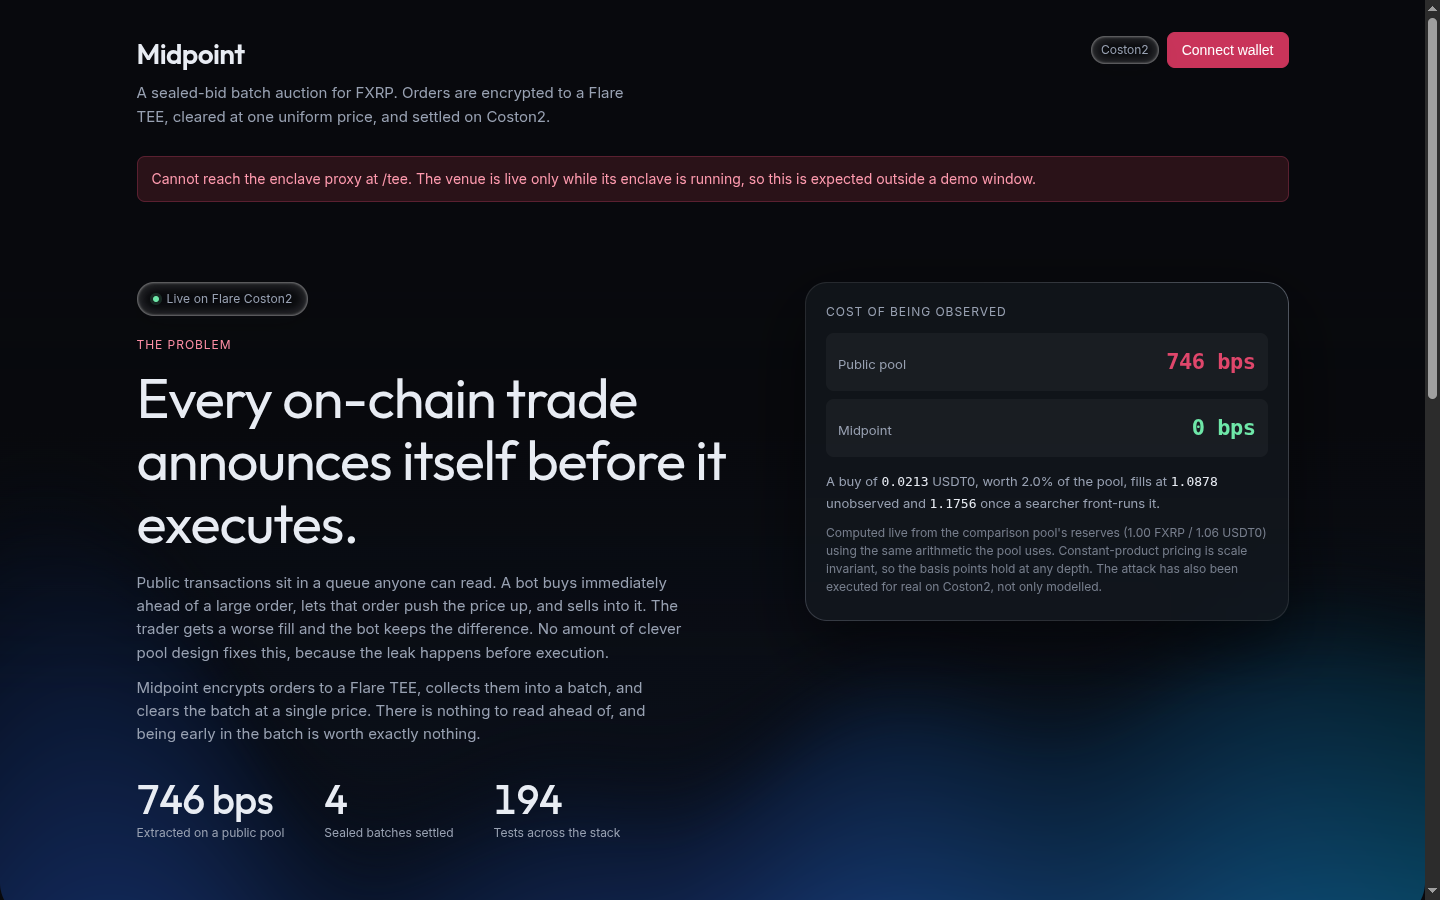
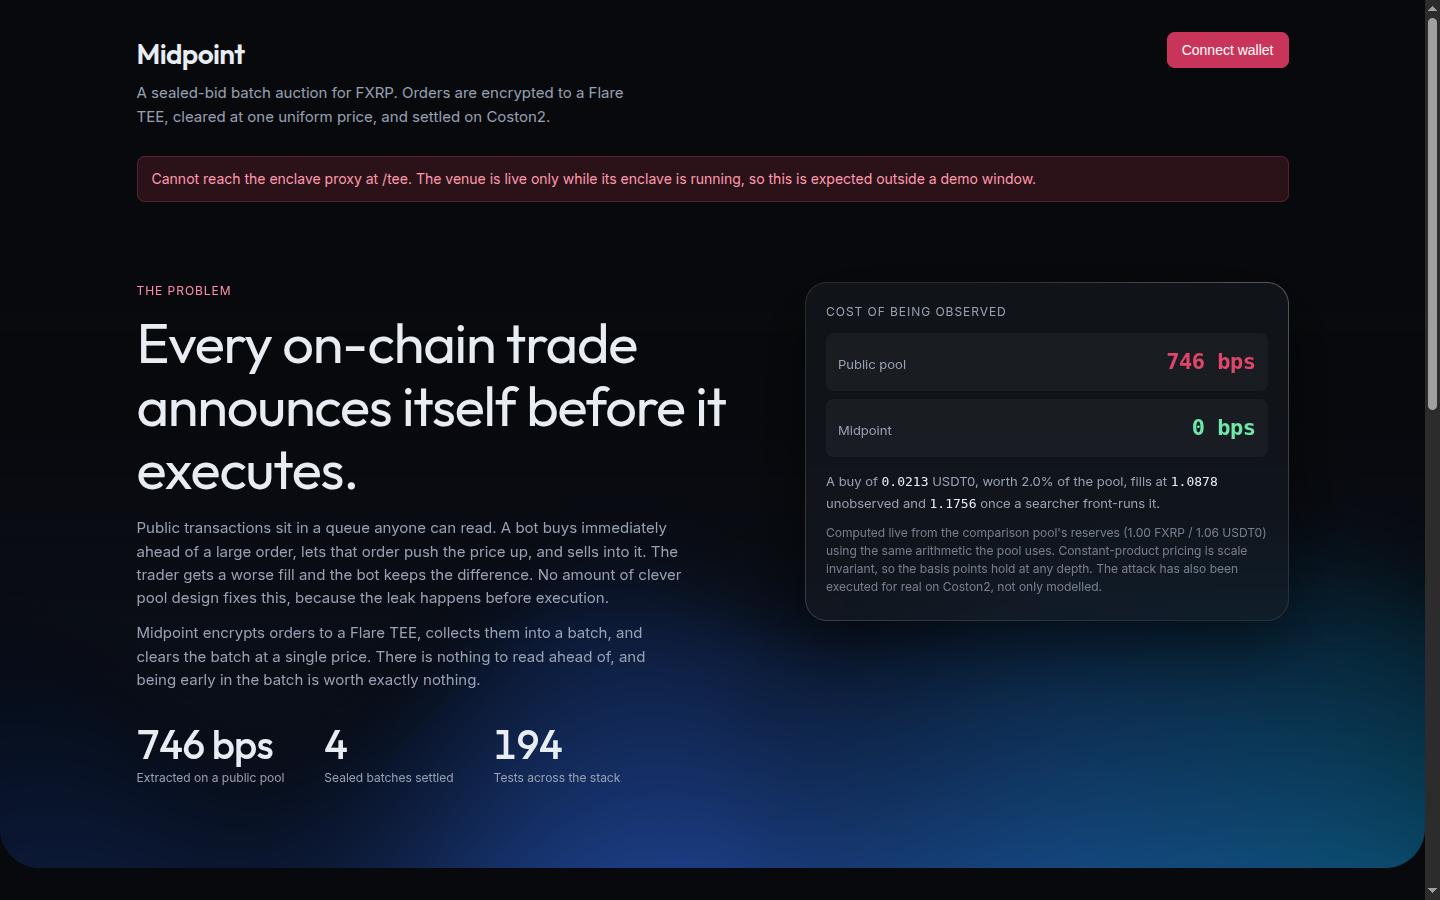
feat: remove the decorative pills from the hero and header
Drops the "Live on Flare Coston2" badge and the "Coston2" chip. Both said
the same thing as each other and as the tagline, which already ends "settled
on Coston2", so the page announced its network three times before saying
anything about the product.

The hero now opens straight on the kicker and the headline.

The enclave and account chips stay. Those are not decoration: they report
which enclave is answering and which account is connected, and they only
appear once there is something to report.

Also removes the now-unused .badge and .badge-dot rules rather than leaving
them to rot.

diff --git a/web/src/styles.css b/web/src/styles.css
@@ -99,9 +99,10 @@ h2 { margin: 0 0 14px; font-size: 15px; text-transform: uppercase; letter-spacin
 .header-right { display: flex; align-items: center; gap: 8px; flex-wrap: wrap; }
 
 /* --- glass pills -----------------------------------------------------------
-   Chips and the hero badge sit on GlassSurface, so they pick up whatever is
-   behind them (the aurora, for the badge) instead of a flat fill. The
-   component supplies the surface; these rules supply the size and type. */
+   The header chips sit on GlassSurface rather than a flat fill. Both carry
+   live state (which enclave is answering, which account is connected), which
+   is why they survived while the decorative pills did not. The component
+   supplies the surface; these rules supply the size and type. */
 .glass-pill {
   display: inline-flex; width: auto !important; height: auto !important;
   border-radius: var(--radius-pill);
@@ -196,18 +197,6 @@ h2 { margin: 0 0 14px; font-size: 15px; text-transform: uppercase; letter-spacin
   content: ""; position: absolute; inset: 0;
   background: var(--aurora-veil);
   pointer-events: none;
-}
-
-/* The badge above the headline. States where this is running, which is a fact
-   worth leading with when the whole claim rests on a real deployment. */
-.badge { margin-bottom: var(--space-5); }
-.badge .glass-surface__content {
-  padding: var(--space-2) var(--space-4);
-  font-size: var(--text-xs); color: var(--text-muted); letter-spacing: 0.01em;
-}
-.badge-dot {
-  width: 6px; height: 6px; border-radius: 50%; background: var(--private);
-  box-shadow: 0 0 0 3px var(--private-dim);
 }
 
 .kicker {

diff --git a/web/src/App.tsx b/web/src/App.tsx
@@ -387,7 +387,6 @@ function Header({ teeExtension, account, onConnect }: {
         </p>
       </div>
       <div className="header-right">
-        <GlassPill className="chip">Coston2</GlassPill>
         {teeExtension && (
           <GlassPill className="chip">enclave {short(teeExtension, 8, 6)}</GlassPill>
         )}
@@ -416,10 +415,6 @@ function Hero({ mev, batch }: { mev?: MevEstimate | null; batch?: BatchState }) 
 
       <div className="container hero">
       <div className="hero-copy">
-        <GlassPill className="badge">
-          <span className="badge-dot" />
-          Live on Flare Coston2
-        </GlassPill>
         <p className="kicker">The problem</p>
         <p className="hero-title">
           Every on-chain trade announces itself before it executes.
